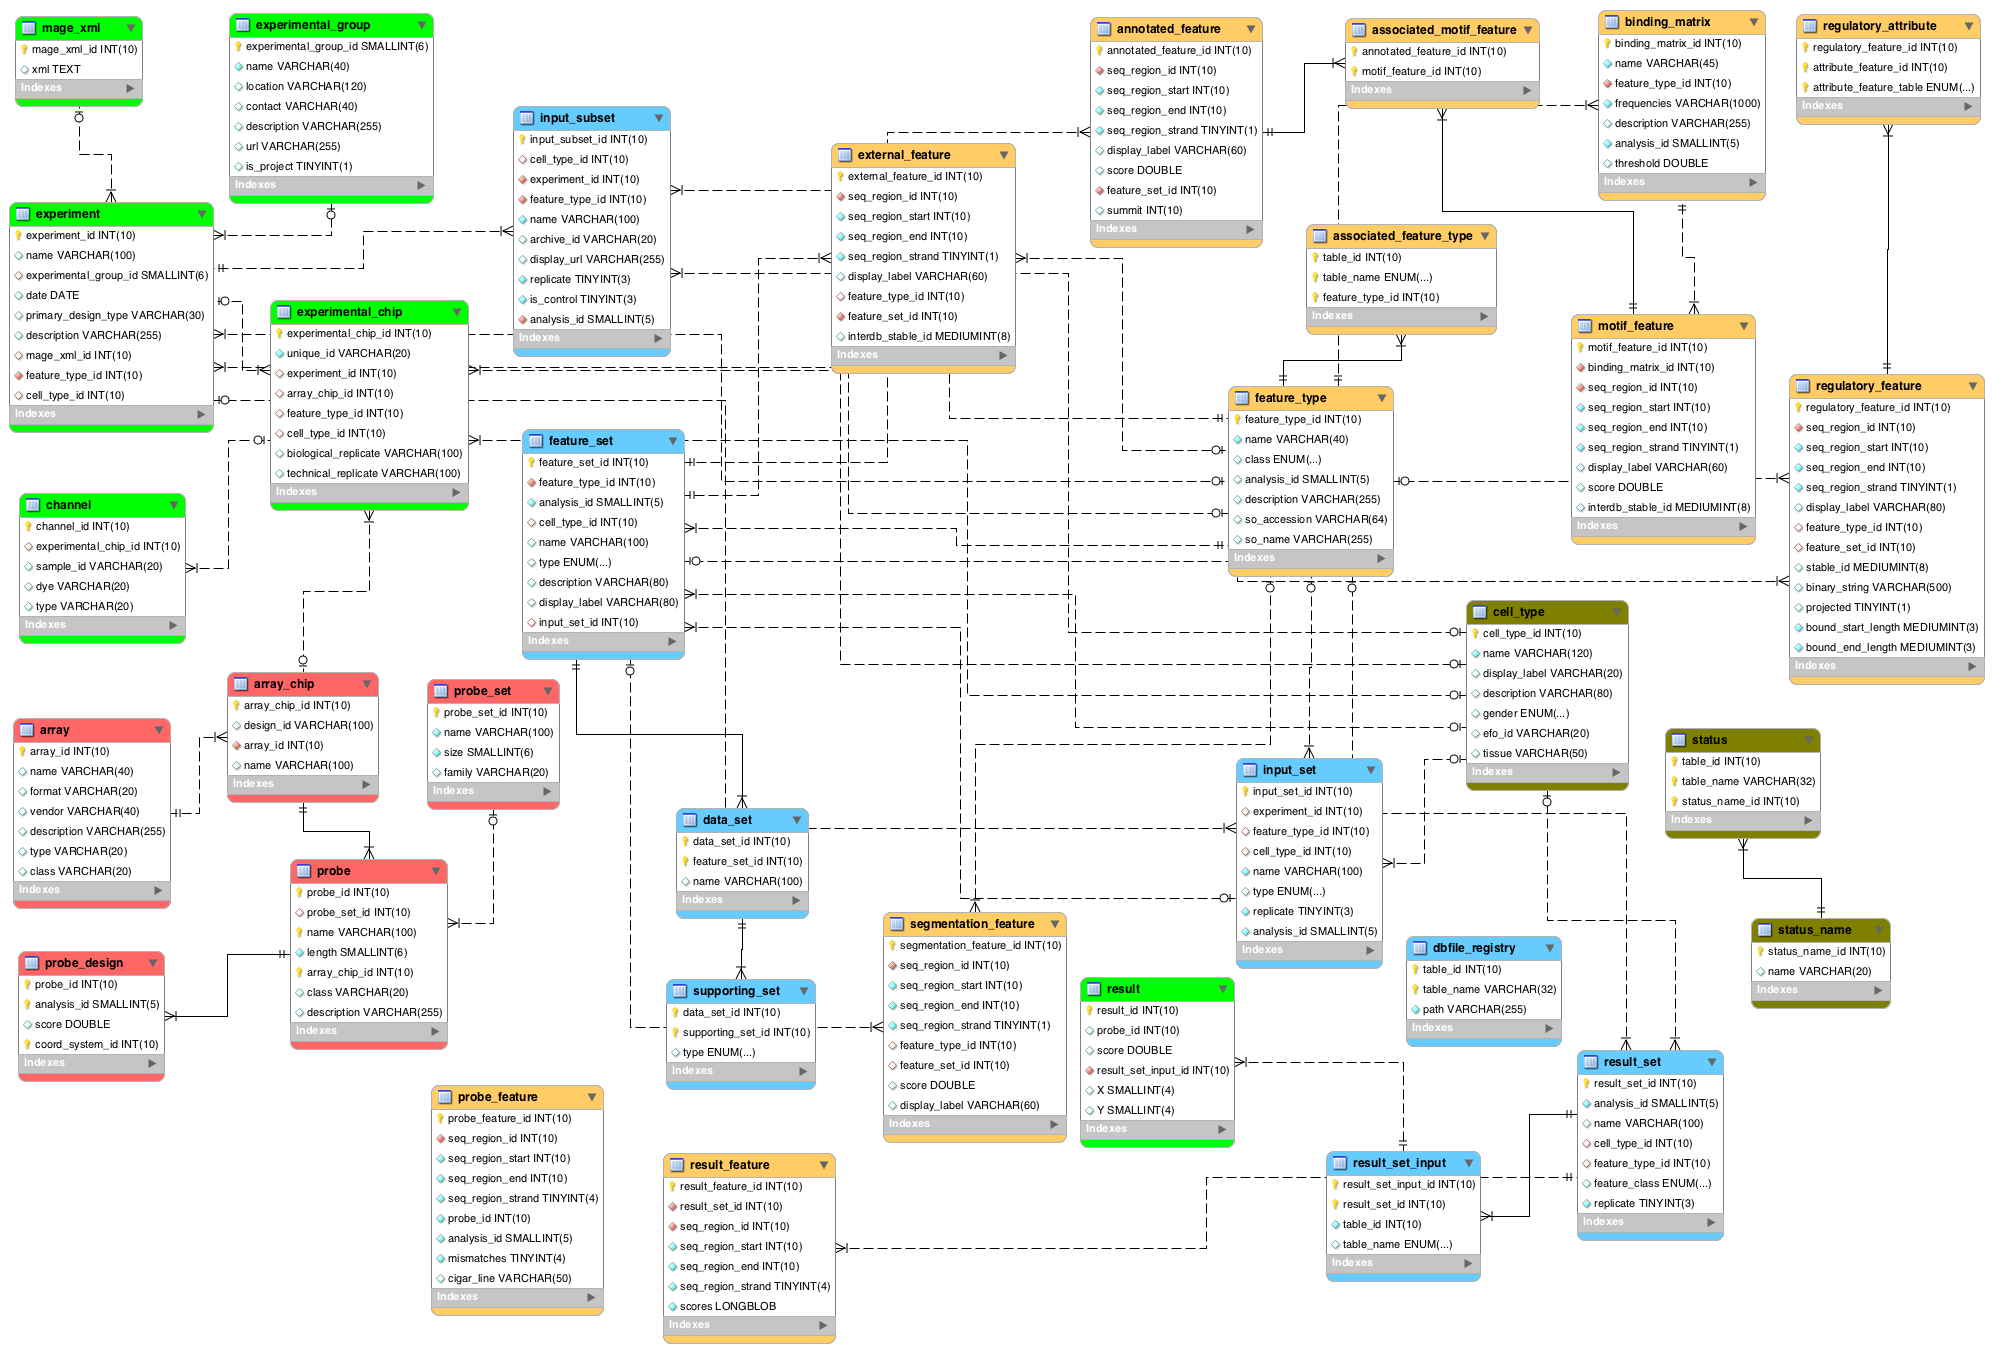
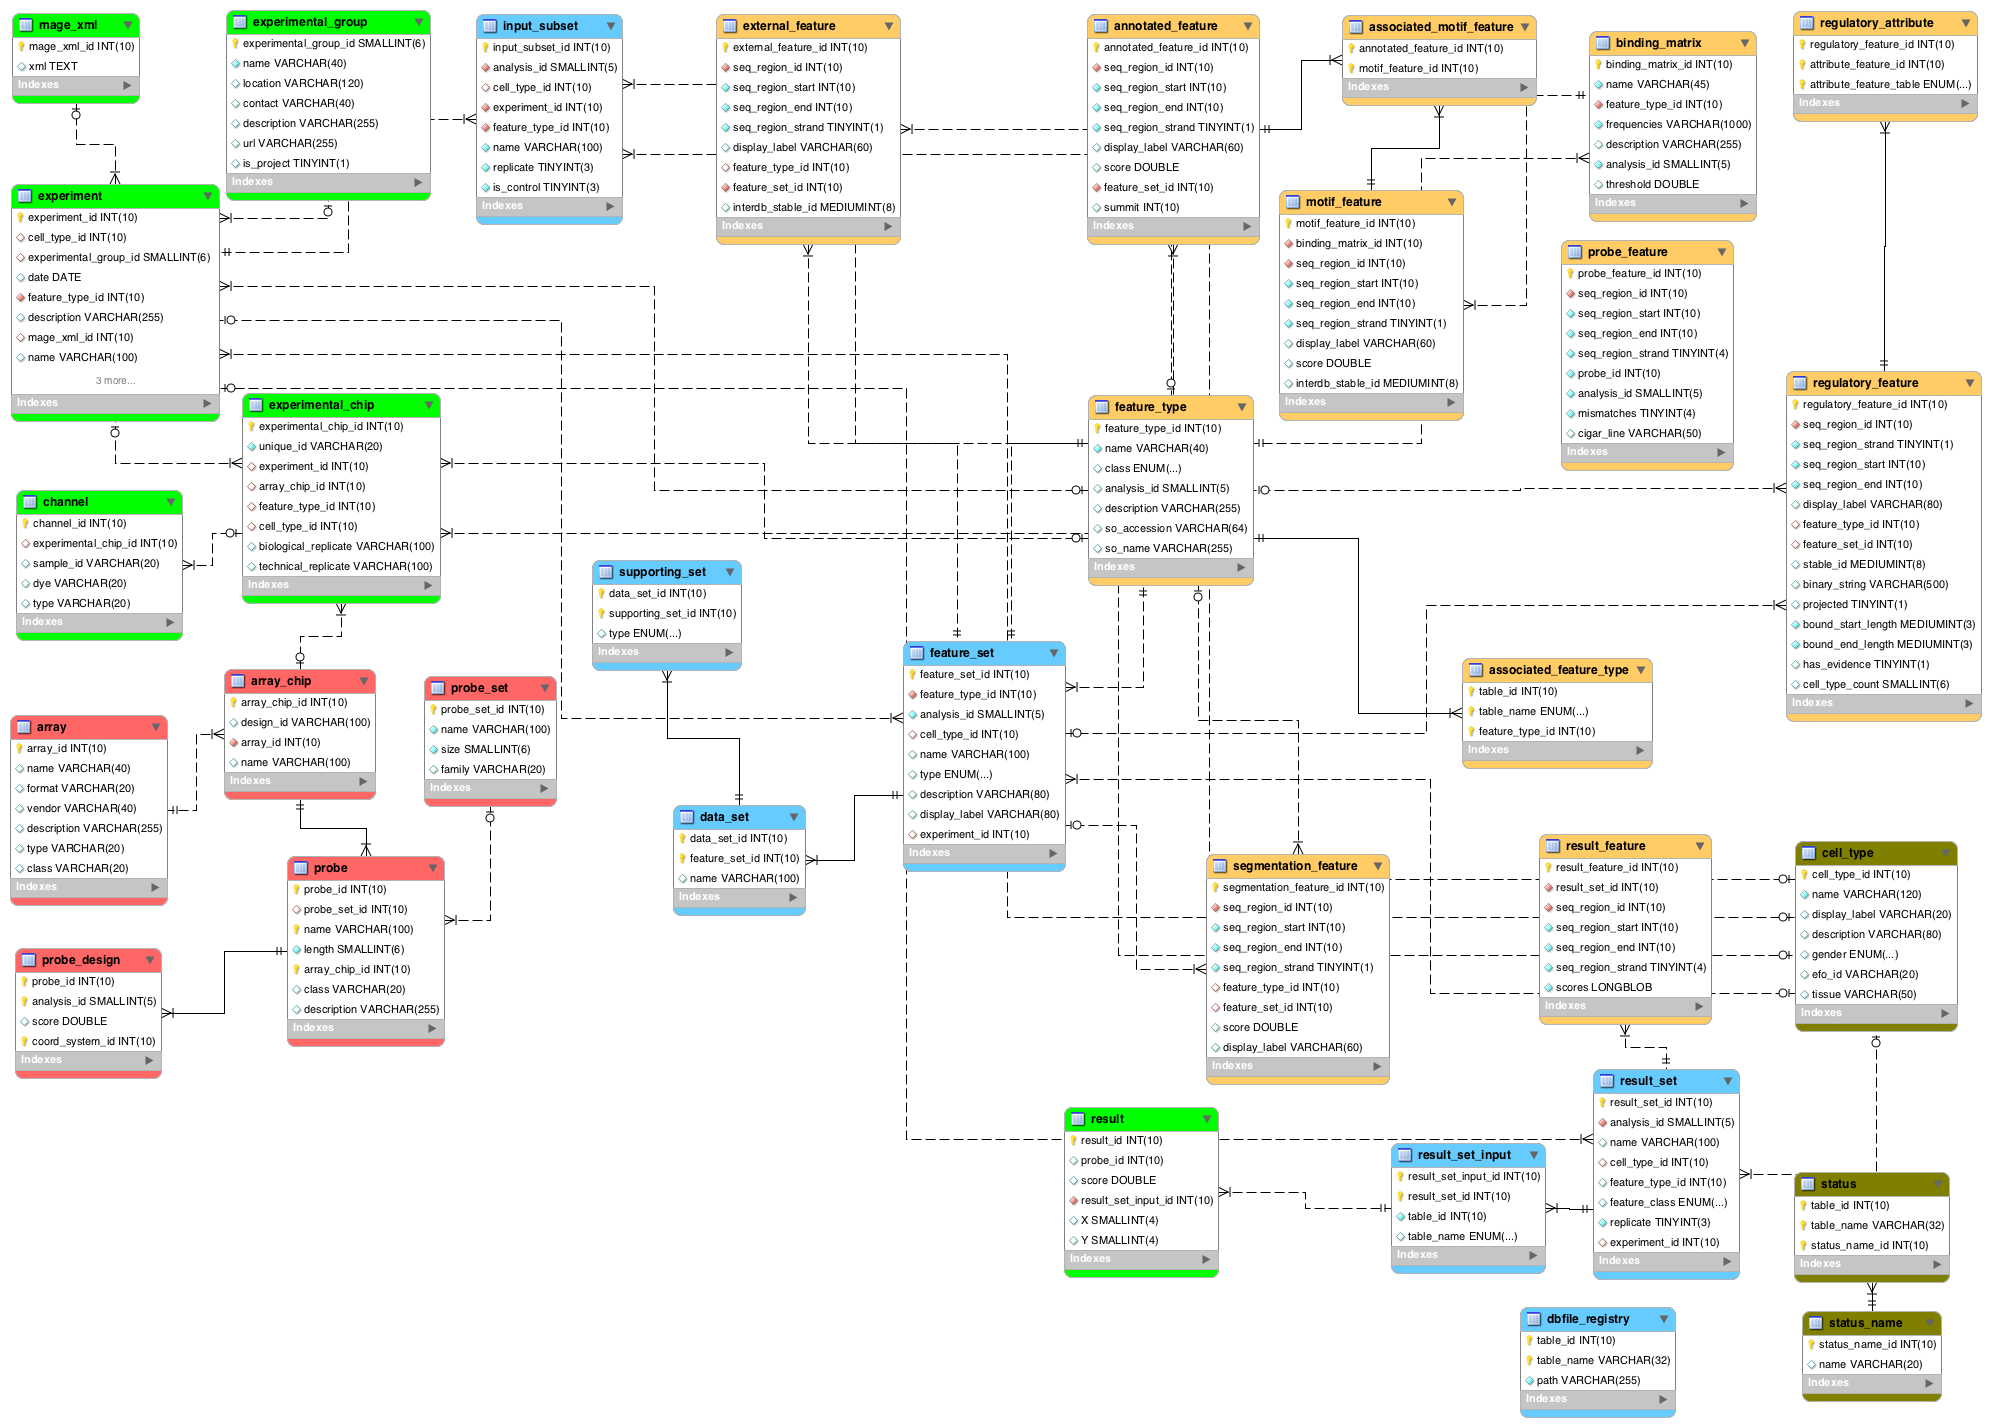
Updating Funcgen documentation

Changed region(s): [[0.0, 0.0, 0.9965, 1.0], [0.9031, 0.8071, 0.9965, 0.9933], [0.6539, 0.4656, 0.6851, 0.4967]]

diff --git a/docs/htdocs/info/docs/api/funcgen/index.html b/docs/htdocs/info/docs/api/funcgen/index.html
@@ -12,7 +12,20 @@
 <h2>Database Description</h2>
 
 <p>
-The Ensembl regulation database and API are developed and maintained by the Ensembl Regulation team. The main focus of the 'funcgen' database is on experimental data which may elucidate transcriptional regulation.  The schema was originally designed to support ChIP on Chip tiling array experiments but soon expanded to support other sequence based technologies.  The original requirements supported use as a local data storage and analysis platform, as such the regulation data bases supports multiple coordinate systems. There is also support for micro array designs and externally curated data sets. See <a href='/info/docs/funcgen/index.html'>here</a> for a summary of the data base content.
+The Ensembl regulation database and API are developed and maintained by the Ensembl Regulation team. The main focus of the 'funcgen' database is on experimental data which may elucidate transcriptional regulation.  The schema was originally designed to support ChIP on Chip tiling array experiments but soon expanded to support other sequencing-based technologies.  The original requirements supported use as a local data storage and analysis platform, as such the regulation data bases supports multiple coordinate systems. There is also support for micro array designs and externally curated data sets. See <a href='/info/docs/funcgen/index.html'>here</a> for a summary of the data base content.
+</p>
+
+<ul style="vertical-align:top">
+  <li style="list-style-image: url(/i/16/documentation.png);vertical-align:top">
+    <a href="funcgen_schema.html" style="font-weight:bold;vertical-align:top">Schema documentation</a>: page describing every column of every table of the Ensembl Funcgen database schema.
+  </li>
+  <li style="list-style-image: url(/i/16/database.png);vertical-align:top">
+    <span style="font-weight:bold;vertical-align:top">Database diagram </span>: 
+    <a href="trimmed_funcgen_schema.png">
+       <img src="trimmed_funcgen_schema_thumbnail.png" style="border:1px solid navy;vertical-align:top" alt="Variation Schema Diagram" title="Variation Schema Diagram (PDF)">
+    </a>
+  </li>
+</ul>
 
 <!-- The database content includes:
 
@@ -50,19 +63,6 @@ The Ensembl regulation database and API are developed and maintained by the Ense
 </ul>
  -->
 
-<h2>Database Schema</h2>
-
-<p>
-The table layout of the database is explained in the following document:
-</p>
-
-<ul>
-<li>
-<a href="funcgen_schema.html">Funcgen Schema Description</a>
-</li>
-</ul>
-
-
 <h2 id="api">Perl API</h2>
 
 <p>
@@ -70,32 +70,42 @@ A comprehensive Perl Application Programme Interface (API) provides efficient ac
 </p>
 
 <ul>
-
-<li>
-<a href="../api_installation.html">EnsEMBL Perl API Installation</a>: A step-by-step installation guide for all Ensembl Perl APIs.
-</li>
-
-<!-- <li>
-<a href="efg_introduction.html">Introduction to eFG</a>: An introduction on how to set up eFG as a local data storage and analysis platform.
-</li> -->
-
-<li>
-<a href="/info/docs/Doxygen/funcgen-api/index.html">Regulation Perl API Documentation</a>: A complete reference to the objects and methods used in the Funcgen database API.
-</li>
-
-<li>
-<a href="regulation_tutorial.html">Regulation Perl API Tutorial</a>: An introduction to the underlying concepts of the Funcgen database API.
-</li>
-
-
-<li>
-<a href="reg_features.html">API support for old core Regulatory Features</a>: Details of the migration of regulatory feature support from the core API to Funcgen API.
-</li>
-
-<!-- <li>Guidelines on how to set up the eFG analysis environment are available from the eFG perl package: ensembl-funcgen/scripts/introduction_to_efg.txt</li> -->
-
+  <li style="list-style-image: url(/i/16/download.png);vertical-align:top">
+    <a href="/info/docs/api/api_installation.html" style="font-weight:bold;vertical-align:top">API Installation</a>: A step-by-step installation guide for all Perl Ensembl APIs.
+  </li>
+  <li style="list-style-image: url(/i/16/documentation.png);vertical-align:top">
+    <a href="/info/docs/Doxygen/funcgen-api/index.html" style="font-weight:bold;vertical-align:top">Funcgen API Documentation</a>: A complete reference to the objects and methods used in the Funcgen database API, through the Doxygen tool.
+  </li>
+  <li style="list-style-image: url(/i/16/documentation.png);vertical-align:top">
+    <a href="/info/docs/api/variation/regulation_tutorial.html" style="font-weight:bold;vertical-align:top">Funcgen API Tutorial</a>: An introduction to the underlying concepts of the Funcgen database API.
+  </li>
+  <li style="list-style-image: url(/i/16/documentation.png);vertical-align:top">
+    <a href="reg_features.html">API support for old core Regulatory Features</a>: Details of the migration of regulatory feature support from the core API to Funcgen API.
+  </li>
 </ul>
 
+<h3 id="overviews">API diagram overviews</h3>
+<p>
+See below links to some overviews of the Funcgen API to illustrate what data/objects you can fetch from the classes:
+</p>
+
+<div style="float:left;background-color:#FFF;border:1px solid #555;border-radius:5px">
+  <div style="padding:3px 2px;font-weight:bold;background-color:#336;color:#FFF;text-align:center;border-top-left-radius:4px;border-top-right-radius:4px">
+    Regulation API
+  </div>
+  <a rel="external" href="funcgen_api.png">
+    <img src="funcgen_api_thumbnail.png" style="padding:4px" alt="Variation API schema Diagram"/>
+  </a>
+</div>
+
+<br />
+
+<p>
+  <img src="/i/16/alert.png" style="width:12px;height:12px" alt="Note" /> <b>Note:</b> not all the objects of the Ensembl Funcgen API are represented in these diagrams. They are only overviews to help you to understand the main classes in Ensembl Funcgen API.
+</p>
+
+
+<!-- <li>Guidelines on how to set up the eFG analysis environment are available from the eFG perl package: ensembl-funcgen/scripts/introduction_to_efg.txt</li> -->
 
 <h2 id="support">Ensembl Software Support</h2>
 
